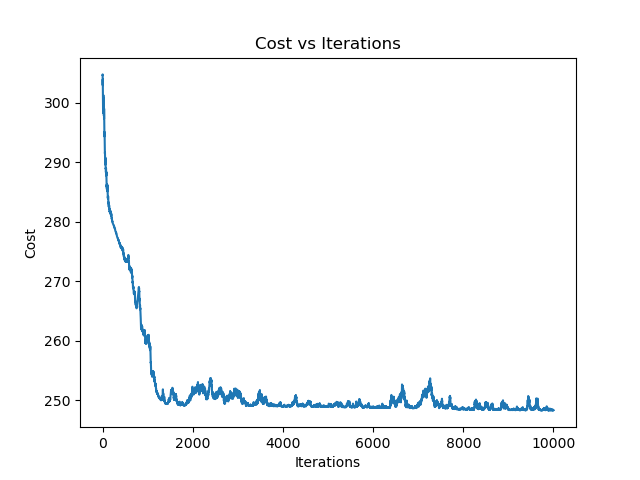
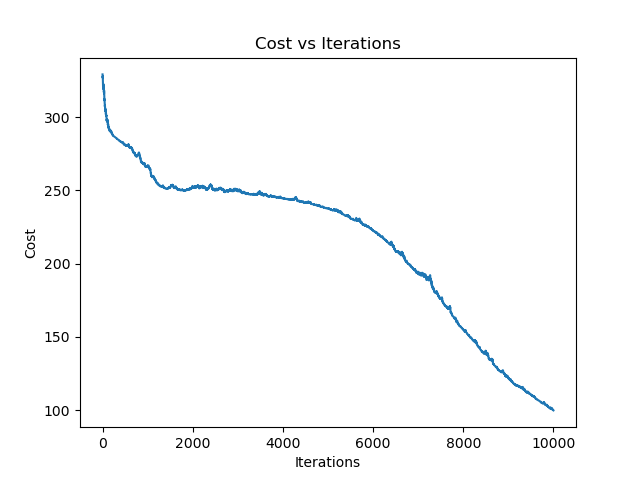
standardized inputs

diff --git a/neural_network.py b/neural_network.py
@@ -3,19 +3,20 @@ import numpy as np
 import matplotlib.pyplot as plt
 from sklearn.model_selection import train_test_split
 from sklearn.metrics import confusion_matrix, ConfusionMatrixDisplay
-
+from sklearn.preprocessing import scale
 #%%
 df = pd.read_csv("college.csv")
-y = df[["Private"]]
-X = df.iloc[:,2:]
-
+y = df[["Private"]].values
+X = df.iloc[:,2:].values
+#%%
+X = scale(X, axis =0, with_mean = True, with_std = True)
 X_train, X_test, y_train, y_test = train_test_split(X,y,
                                                     test_size = 0.2, random_state = 1)
-
+#%%
 # initialize a neural network
 L = 4 # no layers
 # Define number of neurons per layer
-n = [len(X.columns),4, 4, len(y["Private"].unique())]
+n = [X.shape[1],4, 4, len(np.unique(y))]
 # choose random weights and biases
 np.random.seed(0)
 Weights = dict()
@@ -41,8 +42,8 @@ for i in range(0,Niter):
     # choose a training point randomly
     k = np.random.randint(0, y_train.shape[0]-1)
     # feed it to the network
-    x = np.array(X_train.iloc[k])
-    a[1] = np.reshape(x, (len(x),1))
+    x = np.reshape(X_train[k], (X_train[k].shape[0],1))
+    a[1] = x
     # forward pass
     for l in range (2,L+1):
         prod = np.dot(Weights[l], a[l-1])
@@ -84,12 +85,12 @@ fig.savefig("cost.png")
 #%% make predictions
 prediction = np.zeros(y_test.shape[0])
 for i in range(0, y_test.shape[0]):
-     prediction[i] = predict(forward_pass(X_test.iloc[i,:].values, Weights, biases, L))
+     prediction[i] = predict(forward_pass(X_test[i], Weights, biases, L))
 y_test_logical = np.array([y_test["Private"] == "No"]).flatten()
 #%%
 cm = confusion_matrix(y_test_logical, y_test_logical)
 cm_display = ConfusionMatrixDisplay(cm).plot()
-
+cm_display.figure_.savefig("confusion_matrix.png")
 
 #%%
 def sigmoid(z):
@@ -104,7 +105,7 @@ def calculate_cost(y_train, X_train, Weights, biases, L):
     Cost = 0
     # iterate over all training observations
     for i in range(0, y_train.shape[0]):
-        a = X_train.iloc[i,:].values.reshape(-1,1)
+        a = X_train[i].reshape(-1,1)
         # feed the observation the NN
         for l in range(2,L+1):
             z = np.dot(Weights[l], a) + biases[l]
